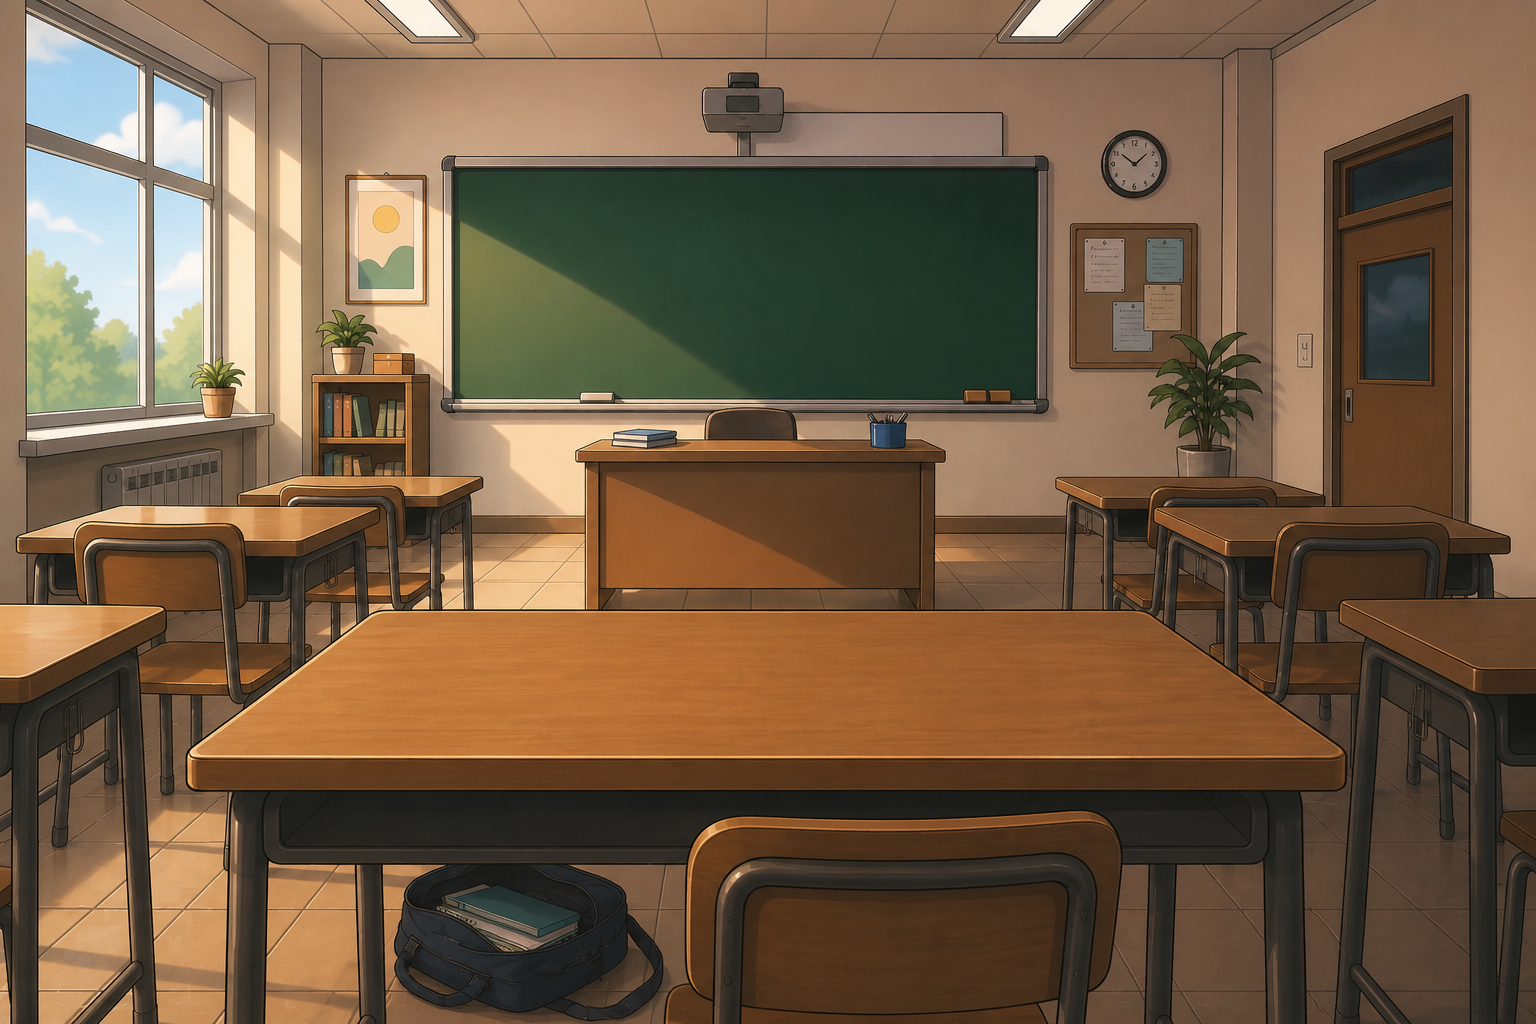
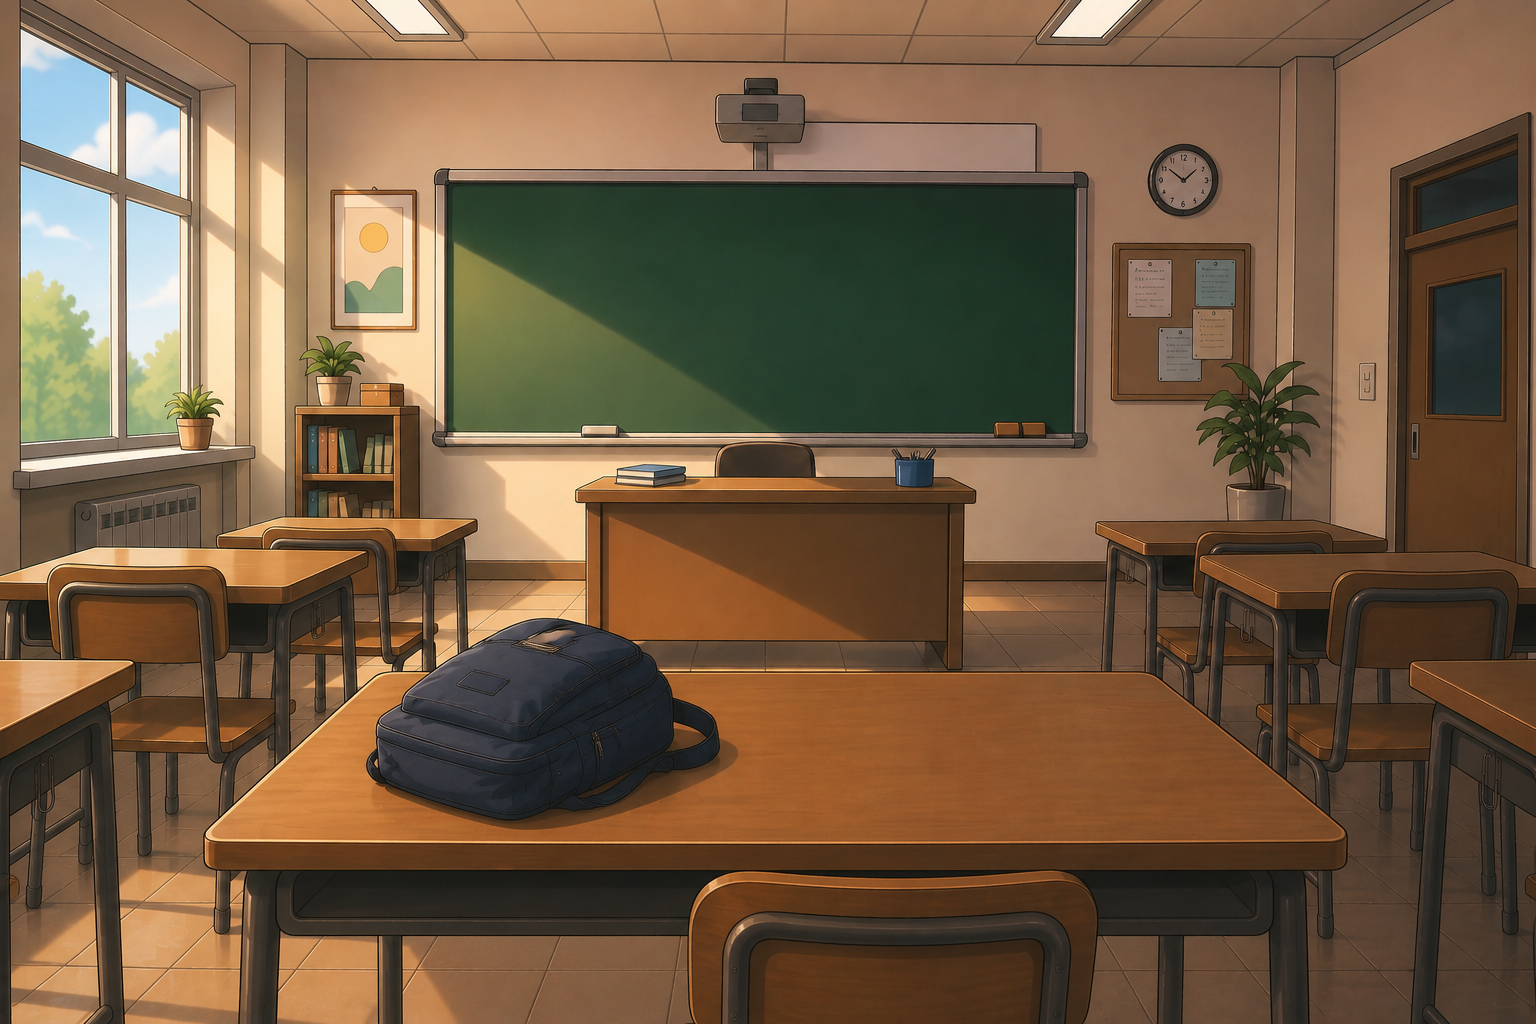
pause

diff --git a/project/style.css b/project/style.css
@@ -1643,7 +1643,70 @@ opacity: 1;}
     color: black;
     font-family: text;
     position: absolute;
-    z-index: 1000rem;
-    left: 57rem;
-    top: 9rem;
+    z-index: 1000;
+    left: 59rem;
+    top: 7rem;
+}
+
+#SpielBlockVier{
+    display: none;
+}
+#pause-back{
+    width: 100%;
+    height: 100%;
+    object-fit: contain;
+}
+#pauseBar{
+    width: 55vw;
+    height: 7vh;
+    background-color: white;
+    position: absolute;
+    z-index: 4;
+    border-radius: 100px;
+    bottom: 2rem;
+    left: 18rem; 
+}
+#Inventar{
+    font-size: 1.4rem;
+    color: black;
+    font-family: text;
+    width: 30vw;
+    position: absolute;
+    z-index: 9;
+    left: 25rem;
+    bottom: 1rem;
+}
+#Inventar:hover{
+    cursor: pointer;
+}
+#zwischen-dings{
+    font-size: 2rem;
+    color: black;
+    font-family: text;
+    width: 30vw;
+    position: absolute;
+    z-index: 9;
+    left: 39rem;
+    bottom: 0rem;
+}
+#loot-vorgang{
+    font-size: 1.4rem;
+    color: black;
+    font-family: text;
+    width: 30vw;
+    position: absolute;
+    z-index: 9;
+    left: 43rem;
+    bottom: 1rem;
+}
+#loot-vorgang:hover{
+    cursor: pointer;
+}
+#InventarBlock{
+    display: none;
+}
+#Inventar-back{
+    width: 100%;
+    height: 100%;
+    object-fit: contain;
 }

diff --git a/project/index.html b/project/index.html
@@ -318,15 +318,30 @@
     <div id="SpielBlockDrei">
         <img id="spielblockdrei-back" src="img/test-abgeben-back.png">
         <img id="lehrer-abgeben" src="img/test-abgeben-lehrer.png">
-        <img id="sprechblase-abgeben" src="img/sprechblase.webp">
 
         <p id="lehrer-pause">Ihr könnt jetzt Pause machen !</p>
+        <img id="sprechblase-abgeben" src="img/sprechblase.webp">
 
 
         <div id="IndiePause"></div>
         <p id="pause-machen" onclick="showSpielBlockVier()">In die Pause gehen</p>
         
     </div>
+
+    <div id="SpielBlockVier">
+        <img id="pause-back" src="img/pause-back.png">
+
+        <div id="pauseBar"></div>
+        <p id="Inventar">Inventar</p>
+        <p id="zwischen-dings">|</p>
+        <p id="loot-vorgang">Lootvorgang beginnen</p>
+
+    </div>
+    <!--Invenatar Block-->
+    <div id="InventarBlock">
+        <img id="Inventar-back" src="img/Tischplatte.webp">
+    </div>
+    <!--Spiel normal weiter-->
 
  </section>
     

diff --git a/project/scripts/script.js b/project/scripts/script.js
@@ -40,7 +40,10 @@ let boosterOverlay = document.getElementById('booster-overlay')
 let spielBlockEins = document.getElementById('SpielBlockEins')
 let spielBlockZwei = document.getElementById('SpielBlockZwei')
 let spielBlockDrei = document.getElementById('SpielBlockDrei')
+let spielBlockVier = document.getElementById('SpielBlockVier')
 
+
+let Inventar = document.getElementById('InventarBlock')
 
 let nameInput = document.getElementById('name-eingabe')
 let datumInput = document.getElementById('datum-eingabe')
@@ -235,4 +238,12 @@ function showSpielBlockZwei(){
 function showSpielBlockDreiI(){
     spielBlockZwei.style.display = 'none'
     spielBlockDrei.style.display = 'grid'
+}
+function showSpielBlockVier(){
+    spielBlockDrei.style.display = 'none'
+    spielBlockVier.style.display = 'grid'
+}
+function showInventar(){
+    spielBlockVier.style.display = 'none'
+    Inventar.style.display = "grid"
 }